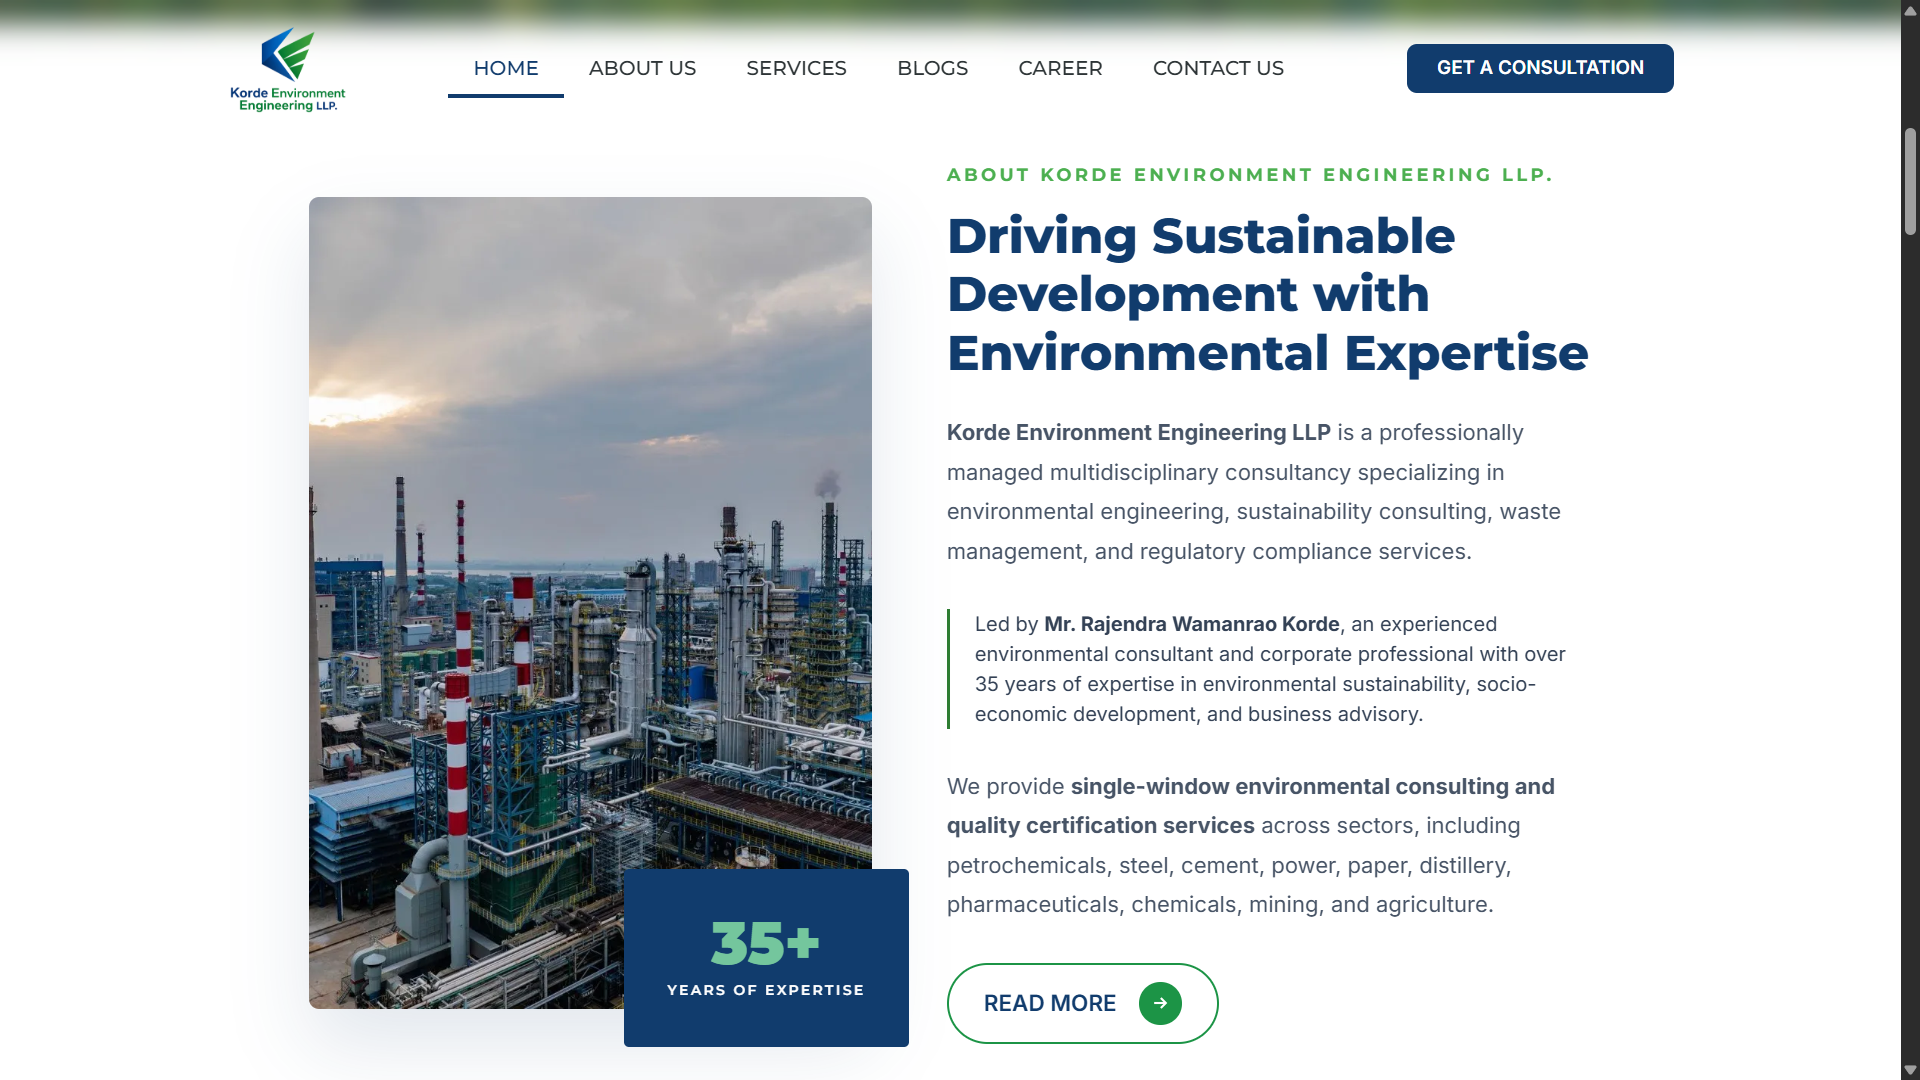
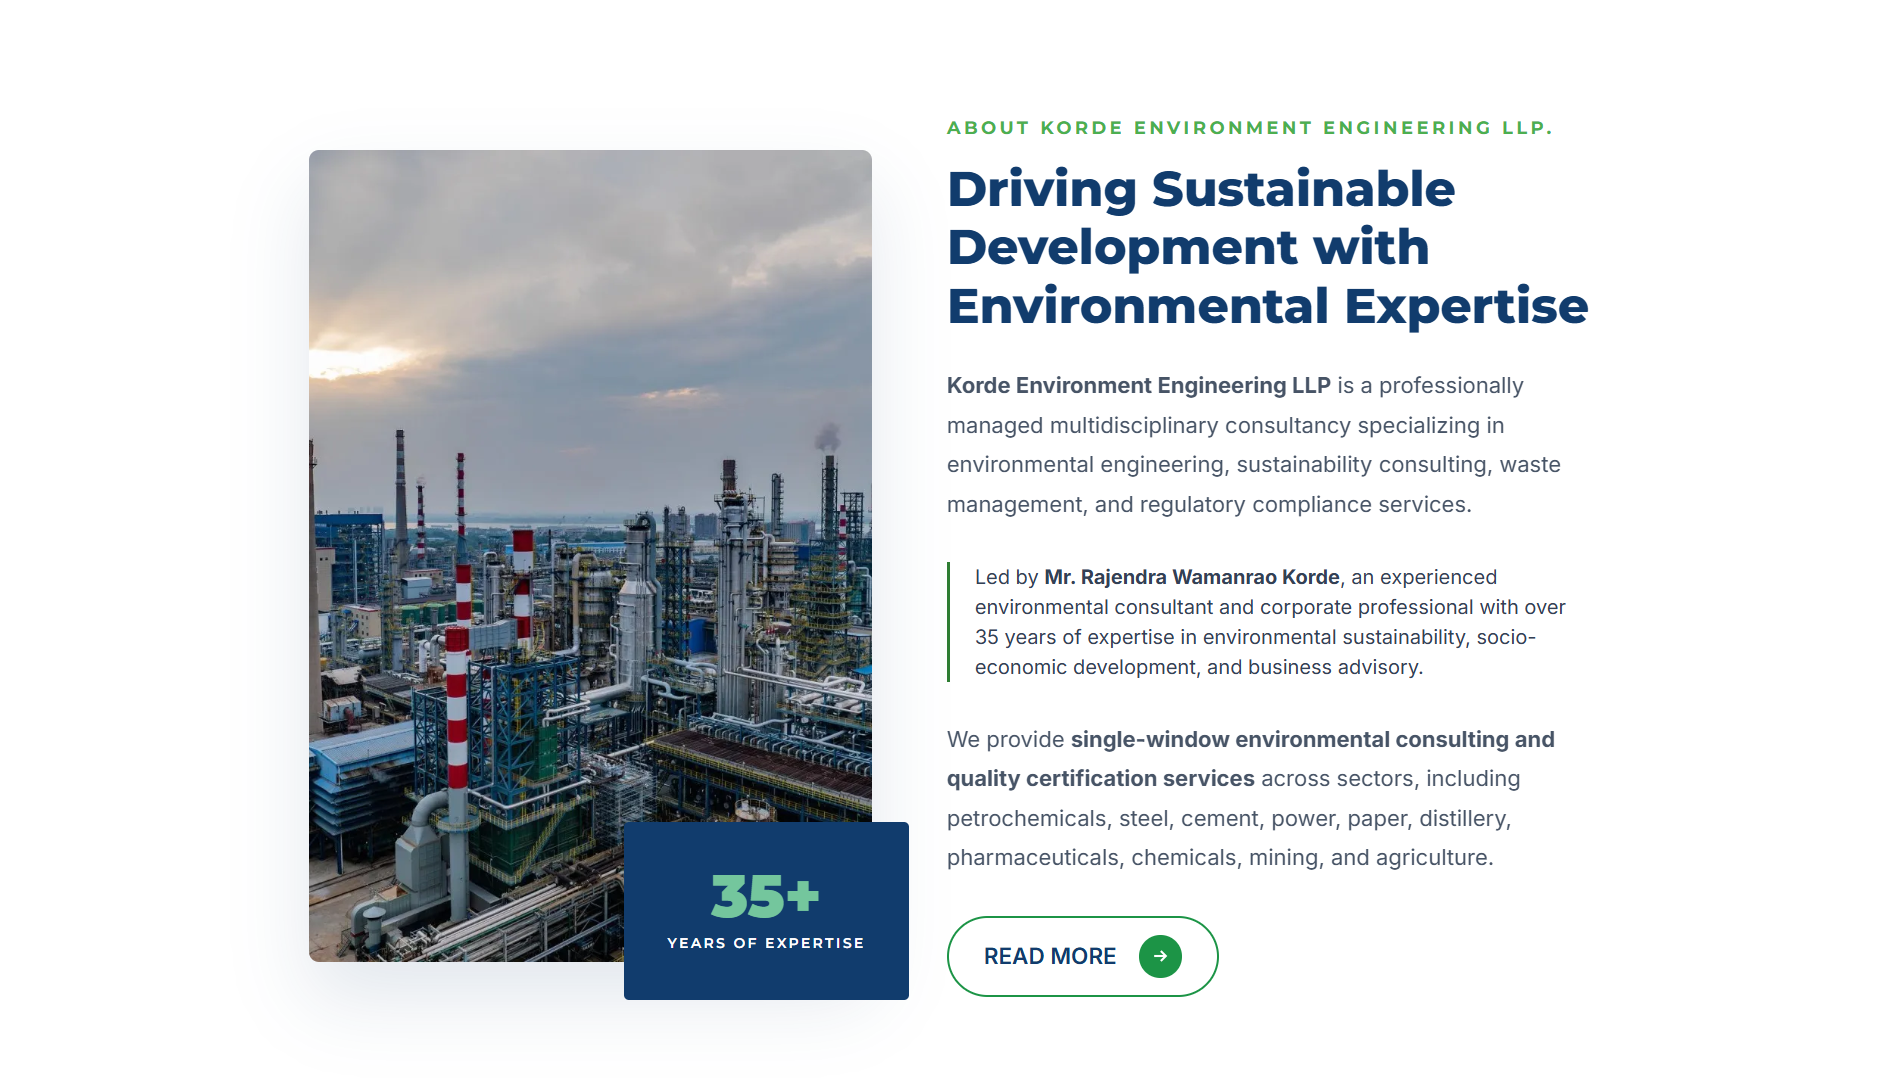
feat: add ProjectCard and Work components with filtering functionality and update styles

Changed region(s): [[0.0, 0.0, 1.0, 1.0], [0.3421, 0.398, 0.3732, 0.4286], [0.2488, 0.2449, 0.2799, 0.2755]]

diff --git a/components/ProjectCard.tsx b/components/ProjectCard.tsx
@@ -1,0 +1,135 @@
+import projects, { Project } from "./data/projects";
+import Image from "next/image";
+import Link from "next/link";
+
+export function ProjectCard({ project }: { project: Project }) {
+  return (
+    <article
+      className="
+        group relative overflow-hidden rounded-lg
+        border border-border bg-surface
+        transition-all duration-300
+        hover:-translate-y-1 hover:shadow-lg
+      "
+    >
+      {/* Project Image */}
+      <div className="relative overflow-hidden bg-accent">
+        <Image
+          src={project.img}
+          alt={project.title}
+          className="
+            aspect-16/10 w-full
+            object-cover object-top
+            transition-all duration-500
+            group-hover:scale-[1.03]
+            group-hover:brightness-90
+          "
+        />
+
+        {/* Open Project */}
+        {project.link && (
+          <Link
+            href={project.link}
+            target="_blank"
+            rel="noopener noreferrer"
+            aria-label={`View ${project.title}`}
+            className="
+              absolute left-1/2 top-1/2 z-10
+              flex h-11 w-11
+              -translate-x-1/2 -translate-y-1/2
+              items-center justify-center
+              rounded-full
+              bg-surface text-foreground
+              text-xl font-bold
+              shadow-md
+              opacity-0
+              scale-90
+              transition-all duration-300
+              group-hover:scale-100
+              group-hover:opacity-100
+              hover:bg-accent hover:shadow-lg
+              focus-visible:scale-100
+              focus-visible:opacity-100
+              focus-visible:outline-none
+              focus-visible:ring-2
+              focus-visible:ring-gray
+            "
+          >
+            ↗
+          </Link>
+        )}
+
+        {/* Project Type */}
+        {project.type && (
+          <span
+            className="
+              absolute left-3 top-3
+              rounded-full
+              border border-border
+              bg-surface/95
+              px-3 py-1
+              text-xs text-foreground
+              shadow-sm
+              backdrop-blur-sm
+            "
+          >
+            {project.type}
+          </span>
+        )}
+      </div>
+
+      {/* Content */}
+      <div className="p-5">
+        <div className="mb-2 flex items-center justify-between">
+          <span className="text-xs uppercase tracking-wider text-dusty">
+            Project
+          </span>
+
+          <span className="text-xs text-dusty">
+            #{String(project.id).padStart(2, "0")}
+          </span>
+        </div>
+
+        <h3 className="text-xl font-medium tracking-tight text-foreground">
+          {project.title}
+        </h3>
+
+        <p className="mt-2 line-clamp-2 text-sm leading-relaxed text-secondary">
+          {project.description}
+        </p>
+
+        {/* Technologies */}
+        {project.tags && project.tags?.length > 0 && (
+          <div className="mt-5 flex flex-wrap gap-2">
+            {project.tags.map((tag) => (
+              <span
+                key={tag}
+                className="
+                  rounded-full
+                  border border-border
+                  bg-accent/40
+                  px-3 py-1.5
+                  text-xs text-foreground
+                  transition-colors duration-200
+                  group-hover:border-dusty
+                "
+              >
+                {tag}
+              </span>
+            ))}
+          </div>
+        )}
+      </div>
+    </article>
+  );
+}
+
+export function ProjectList({ projects }: { projects: Project[] }) {
+  return (
+    <div className="grid grid-cols-1 gap-6 md:grid-cols-2 lg:gap-8">
+      {projects.map((project) => (
+        <ProjectCard key={project.id} project={project} />
+      ))}
+    </div>
+  );
+}

diff --git a/components/Work.tsx b/components/Work.tsx
@@ -1,7 +1,82 @@
+"use client";
+
+import { ArrowUpRight } from "lucide-react";
+import Button from "./ui/Button";
+import Link from "next/link";
+import { ProjectList } from "./ProjectCard";
+import projects, { Project } from "./data/projects";
+import { useState } from "react";
+
 export default function Work() {
+  const [filter, setFilter] = useState<Project["type"] | "all">("Professional");
+
+  const filterProjectsByType = (type: Project["type"] | "all") => {
+    const filteredProjects =
+      type === "all"
+        ? projects
+        : projects.filter((project) => project.type === type);
+
+    return filteredProjects;
+  };
+
   return (
-    <section id="work" className="w-screen h-screen bg-red-300">
-      <h2>Selected Work</h2>
+    <section
+      id="work"
+      className="flex w-full justify-center items-center overflow-hidden bg-background pt-10 pb-10 md:pt-20 md:pb-20"
+    >
+      <div className="mx-auto max-w-7xl px-6 md:px-8 lg:px-10 flex flex-col justify-center items-center">
+        <div className="flex justify-center items-center flex-col relative">
+          <div className="opacity-5 tracking-widest uppercase text-[10vw]">
+            Portfolio
+          </div>
+          <h2 className="relative -top-27 text-[4vw] text-black font-medium">
+            /WORK
+          </h2>
+        </div>
+        <div className="flex justify-center flex-col">
+          <div className="flex justify-between items-center">
+            <div className="flex gap-1 justify-between items-center">
+              <Button
+                variant="ghost"
+                className="text-black"
+                onClick={() => setFilter("all")}
+              >
+                All
+              </Button>
+
+              <Button
+                variant="ghost"
+                className="text-black"
+                onClick={() => setFilter("Professional")}
+              >
+                Professional Projects
+              </Button>
+              <Button
+                variant="ghost"
+                className="text-black"
+                onClick={() => setFilter("Personal")}
+              >
+                Personal Projects
+              </Button>
+            </div>
+            <Link
+              href="https://github.com/abhaytiwariii"
+              target="_blank"
+              rel="noopener noreferrer"
+            >
+              <Button
+                variant="outline"
+                className="text-black px-6! py-3! rounded-full!"
+              >
+                View All Work <ArrowUpRight rotate={90} />
+              </Button>
+            </Link>
+          </div>
+          <div className="mt-8 flex w-full justify-between gap-4">
+            <ProjectList projects={filterProjectsByType(filter)} />
+          </div>
+        </div>
+      </div>
     </section>
   );
 }

diff --git a/app/globals.css b/app/globals.css
@@ -14,6 +14,10 @@
   /* Mapping to Next.js defaults */
   --background: var(--light-gray);
   --foreground: var(--dark-slate);
+
+  --foreground-strong: #282828;
+  --foreground-muted: #929aab;
+  --surface-muted: #eeeeee;
 }
 
 @theme inline {
@@ -23,6 +27,7 @@
   --color-foreground: var(--foreground);
 
   --color-secondary: var(--dusty-blue);
+  --color-strong: var(--foreground-strong);
   --color-accent: var(--soft-silver);
   --color-surface: var(--white);
 

diff --git a/app/page.tsx b/app/page.tsx
@@ -7,10 +7,10 @@ import Footer from "@/components/Contact";
 
 export default function Home() {
   return (
-    <div className="bg-zinc-50 font-sans pt-15">
+    <div className="bg-zinc-50 font-sans">
       <HeroSection />
-      {/* <Work />
-      <Experience />
+      <Work />
+      {/* <Experience />
       <Skills />
       <Services />
       <Footer /> */}
